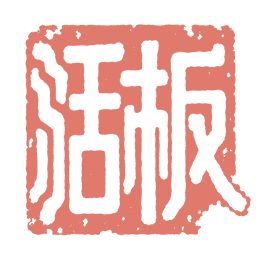
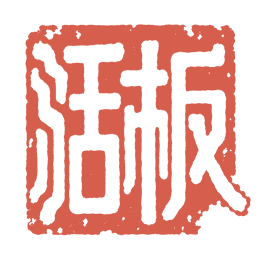
设计资产：深色印面改 #D65E4D，关于页最终稿与 v2 精修稿入库

diff --git a/designs/about-final-v2.html b/designs/about-final-v2.html
@@ -1,0 +1,161 @@
+<!doctype html>
+<html lang="zh-CN">
+<head>
+<meta charset="utf-8">
+<meta name="viewport" content="width=device-width,initial-scale=1">
+<title>活板 · 关于页（精修对比稿 v2 · 浅色 / 深色）</title>
+<style>
+*{box-sizing:border-box}
+html,body{margin:0;padding:0}
+body{
+  background:#E6E3DA;color:#1B1D1E;
+  font-family:"PingFang SC","Microsoft YaHei",system-ui,sans-serif;
+  padding:36px 24px 56px;
+}
+.wrap{max-width:860px;margin:0 auto}
+header{margin-bottom:26px}
+h1{font-size:20px;font-weight:600;margin:0 0 6px;letter-spacing:.04em}
+.sub{font-size:12px;color:#6B6F72;line-height:1.7}
+.label{font-size:12px;color:#5A5E61;letter-spacing:.1em;margin:26px 0 8px}
+
+/* 第 8 条：窄屏兜底。默认窄屏值，宽屏在 media 里覆盖 */
+.stage{
+  width:100%;height:440px;
+  display:flex;flex-direction:column;padding:0 24px;
+  border:1px solid var(--rule);
+  background:var(--paper);color:var(--ink);
[1 lines of base64/hex data omitted]
+}
+.stage.light{
+  /* 第 1 条：浅色 --ink-3 压深到 #6F695F */
+  --paper:#F1EFE8; --ink:#1B1D1E; --ink-3:#6F695F;
+  --seal:#A83A2E; --seal-border:rgba(168,58,46,0.4);
+  --rule:rgba(27,29,30,0.16);
+  --sans:"PingFang SC","Microsoft YaHei",system-ui,sans-serif;
+}
+.stage.dark{
+  /* 第 1 条：深色 --ink-3 提到 #8D8880；第 2 条：朱砂压暗成 #D65E4D */
+  --paper:#15181D; --ink:#E8E4DA; --ink-3:#8D8880;
+  --seal:#D65E4D; --seal-border:rgba(214,94,77,0.45);
+  --rule:rgba(232,228,218,0.16);
+  --sans:"PingFang SC","Microsoft YaHei",system-ui,sans-serif;
+}
+.center{flex:1;display:flex;flex-direction:column;align-items:center;justify-content:center}
+.ab-mark{
+  /* 第 8 条：印面响应式 */
+  width:clamp(72px,18vw,112px);height:clamp(72px,18vw,112px);
+  background-color:var(--seal);
+  -webkit-mask-image:var(--mark);mask-image:var(--mark);
+  -webkit-mask-size:100% 100%;mask-size:100% 100%;
+  -webkit-mask-repeat:no-repeat;mask-repeat:no-repeat;
+}
+.ab-ver{
+  /* 第 1 条：等宽数字 */
+  margin-top:34px;font-family:var(--sans);font-size:12px;
+  letter-spacing:0.16em;margin-right:-0.16em;
+  color:var(--ink-3);line-height:1.6;
+  font-variant-numeric:tabular-nums;
+}
+.footer{
+  /* 第 4 条：垂直重心 24 / 32；第 8 条：允许换行 */
+  display:flex;align-items:center;flex-wrap:wrap;gap:16px;
+  border-top:1px solid var(--rule);
+  padding:24px 0 32px;
+}
+.links{display:flex;align-items:center;gap:24px}
+.lnk{
+  color:var(--ink);text-decoration:none;font-family:var(--sans);
+  font-size:13px;letter-spacing:.02em;cursor:pointer;
+}
+/* 第 7 条：箭头交给 CSS，变小、上浮、强制文本渲染，不再写进 HTML */
+.lnk::after{
+  content:"\2197";
+  font-size:0.85em;margin-left:2px;vertical-align:0.15em;
+  font-variant-emoji:text;
+}
+/* 两链接之间的分隔线（开发者 2026-11-12 要求从圆点恢复为竖线） */
+.sep{width:1px;height:18px;background:var(--rule)}
+.btn{
+  /* 第 3 条：框收窄到 120px；margin-left:auto 全局生效，
+     窄屏 footer 换行后按钮仍被推到所在行最右（修复落在左下角的问题） */
+  margin-left:auto;min-width:120px;height:36px;padding:0 16px;
+  display:inline-flex;align-items:center;justify-content:center;
+  background:none;border:1px solid var(--seal-border);border-radius:0;
+  color:var(--seal);font-family:var(--sans);font-size:12px;cursor:pointer;
+}
+.btn span{
+  /* 第 1、3 条：等宽数字 + 字距降到 0.08em */
+  letter-spacing:0.08em;margin-right:-0.08em;
+  font-variant-numeric:tabular-nums;
+}
+/* 第 6 条：审核通过前禁用态在视觉上退后 */
+.btn:disabled{opacity:0.5;cursor:not-allowed}
+
+/* 第 8 条：宽屏恢复 48px 内边距与按钮靠右 */
+@media (min-width:600px){
+  .stage{padding:0 48px}
+}
+
+.note{
+  margin-top:30px;padding-top:16px;border-top:1px solid rgba(0,0,0,.12);
+  font-size:12px;line-height:1.95;color:#5A5E61;
+}
+.note code{font-size:11.5px}
+</style>
+</head>
+<body>
+<div class="wrap">
+<header>
+  <h1>活板 · 关于页（精修对比稿 v2）</h1>
+  <div class="sub">基于乙1 最终稿 · 三个梯队 8 条已落实 · 一页并列浅色与深色，供对比</div>
+</header>
+
+<div class="label">浅色模式</div>
+<div class="stage light">
+  <div class="center"><div class="ab-mark"></div><div class="ab-ver">0.2.1</div></div>
+  <div class="footer">
+    <div class="links">
+      <a class="lnk" href="#">小红书主页</a>
+      <span class="sep"></span>
+      <a class="lnk" href="#">GitHub 项目页</a>
+    </div>
+    <button class="btn" type="button" disabled aria-disabled="true"><span>请喝杯茶</span></button>
+  </div>
+</div>
+
+<div class="label">深色模式</div>
+<div class="stage dark">
+  <div class="center"><div class="ab-mark"></div><div class="ab-ver">0.2.1</div></div>
+  <div class="footer">
+    <div class="links">
+      <a class="lnk" href="#">小红书主页</a>
+      <span class="sep"></span>
+      <a class="lnk" href="#">GitHub 项目页</a>
+    </div>
+    <button class="btn" type="button" disabled aria-disabled="true"><span>请喝杯茶</span></button>
+  </div>
+</div>
+
+<div class="note">
+  这是<strong>精修对比稿</strong>，不是产品界面；与 <code>designs/about-final.html</code> 并列留存，用于对比效果。
+  印面沿用现役 112px 蒙版与 <code>var(--seal)</code> 运行时染色，<strong>没有重画 logo</strong>；
+  独立资产见 <code>gui/assets/about_seal_light.png</code>、<code>about_seal_dark.png</code>、<code>about_seal_mask.png</code>，
+  库存登记见 <code>docs/design-assets.md</code>。<br>
+  相对最终稿的改动：浅色 <code>--ink-3:#6F695F</code> / 深色 <code>--ink-3:#8D8880</code>；
+  深色朱砂 <code>#E07A6C → #D65E4D</code>；版本号与按钮加 <code>tabular-nums</code>；
+  按钮 148→120px、字距 0.16→0.08em（含光学补偿）；footer 上下留白 18/48 → 24/32；
+  两链接间保留竖分隔线（圆点方案已回退）；禁用态 <code>opacity:.5</code> + <code>not-allowed</code>；
+  箭头由 CSS 伪元素绘制并强制文本渲染；响应式 <code>clamp()</code> 印面 + <code>@media 600px</code> 兜底；
+  按钮 <code>margin-left:auto</code> 全局生效，窄屏 footer 换行后仍保持在右下角。<br>
+  实现约束：打赏通道审核通过前，按钮保持 <code>disabled</code> + <code>aria-disabled</code>、无 <code>href</code>；
+  两条外链须 <code>preventDefault()</code> + <code>stopPropagation()</code> 并经 <code>js_api</code> 打开系统浏览器。
+  本文件未修改 <code>gui/ui.html</code>、<code>gui/api.py</code> 及任何源码。
+</div>
+</div>
+<script>
+document.querySelectorAll('.lnk, .btn').forEach(function(el){
+  el.addEventListener('click', function(e){ e.preventDefault(); });
+});
+</script>
+</body>
+</html>

diff --git a/designs/about-final.html b/designs/about-final.html
@@ -1,0 +1,127 @@
+<!doctype html>
+<html lang="zh-CN">
+<head>
+<meta charset="utf-8">
+<meta name="viewport" content="width=device-width,initial-scale=1">
+<title>活板 · 关于页最终设计稿（浅色 / 深色）</title>
+<style>
+*{box-sizing:border-box}
+html,body{margin:0;padding:0}
+body{
+  background:#E6E3DA;color:#1B1D1E;
+  font-family:"PingFang SC","Microsoft YaHei",system-ui,sans-serif;
+  padding:36px 24px 56px;
+}
+.wrap{max-width:860px;margin:0 auto}
+header{margin-bottom:26px}
+h1{font-size:20px;font-weight:600;margin:0 0 6px;letter-spacing:.04em}
+.sub{font-size:12px;color:#6B6F72;line-height:1.7}
+.label{font-size:12px;color:#5A5E61;letter-spacing:.1em;margin:26px 0 8px}
+
+.stage{
+  width:100%;height:440px;
+  display:flex;flex-direction:column;padding:0 48px;
+  border:1px solid var(--rule);
+  background:var(--paper);color:var(--ink);
[1 lines of base64/hex data omitted]
+}
+.stage.light{
+  --paper:#F1EFE8; --ink:#1B1D1E; --ink-3:#928C7E;
+  --seal:#A83A2E; --seal-border:rgba(168,58,46,0.4);
+  --rule:rgba(27,29,30,0.16);
+  --sans:"PingFang SC","Microsoft YaHei",system-ui,sans-serif;
+}
+.stage.dark{
+  --paper:#15181D; --ink:#E8E4DA; --ink-3:#77726A;
+  --seal:#E07A6C; --seal-border:rgba(224,122,108,0.45);
+  --rule:rgba(232,228,218,0.16);
+  --sans:"PingFang SC","Microsoft YaHei",system-ui,sans-serif;
+}
+.center{flex:1;display:flex;flex-direction:column;align-items:center;justify-content:center}
+.ab-mark{
+  width:112px;height:112px;background-color:var(--seal);
+  -webkit-mask-image:var(--mark);mask-image:var(--mark);
+  -webkit-mask-size:100% 100%;mask-size:100% 100%;
+  -webkit-mask-repeat:no-repeat;mask-repeat:no-repeat;
+}
+.ab-ver{
+  margin-top:34px;font-family:var(--sans);font-size:12px;
+  letter-spacing:0.16em;margin-right:-0.16em;
+  color:var(--ink-3);line-height:1.6;
+}
+.footer{
+  display:flex;align-items:center;
+  border-top:1px solid var(--rule);
+  padding:18px 0 48px;
+}
+.links{display:flex;align-items:center;gap:24px}
+.lnk{
+  color:var(--ink);text-decoration:none;font-family:var(--sans);
+  font-size:13px;letter-spacing:.02em;cursor:pointer;
+}
+.sep{width:1px;height:18px;background:var(--rule)}
+.btn{
+  margin-left:auto;min-width:148px;height:36px;padding:0 14px;
+  display:inline-flex;align-items:center;justify-content:center;
+  background:none;border:1px solid var(--seal-border);border-radius:0;
+  color:var(--seal);font-family:var(--sans);font-size:12px;cursor:pointer;
+}
+.btn span{letter-spacing:0.16em;margin-right:-0.16em}
+
+.note{
+  margin-top:30px;padding-top:16px;border-top:1px solid rgba(0,0,0,.12);
+  font-size:12px;line-height:1.95;color:#5A5E61;
+}
+.note code{font-size:11.5px}
+</style>
+</head>
+<body>
+<div class="wrap">
+<header>
+  <h1>活板 · 关于页（最终设计稿）</h1>
+  <div class="sub">乙1「朱印细框」敲定稿 · 固定印面不重画 · 一页并列浅色与深色</div>
+</header>
+
+<div class="label">浅色模式</div>
+<div class="stage light">
+  <div class="center"><div class="ab-mark"></div><div class="ab-ver">0.2.1</div></div>
+  <div class="footer">
+    <div class="links">
+      <a class="lnk" href="#">小红书主页 ↗</a>
+      <span class="sep"></span>
+      <a class="lnk" href="#">GitHub 项目页 ↗</a>
+    </div>
+    <button class="btn" type="button"><span>请喝杯茶</span></button>
+  </div>
+</div>
+
+<div class="label">深色模式</div>
+<div class="stage dark">
+  <div class="center"><div class="ab-mark"></div><div class="ab-ver">0.2.1</div></div>
+  <div class="footer">
+    <div class="links">
+      <a class="lnk" href="#">小红书主页 ↗</a>
+      <span class="sep"></span>
+      <a class="lnk" href="#">GitHub 项目页 ↗</a>
+    </div>
+    <button class="btn" type="button"><span>请喝杯茶</span></button>
+  </div>
+</div>
+
+<div class="note">
+  这是<strong>最终视觉稿</strong>，不是产品界面。印面沿用现役 112px 蒙版与 <code>var(--seal)</code> 运行时染色
+  （浅 <code>#A83A2E</code> / 深 <code>#E07A6C</code>），没有重画 logo；独立资产见
+  <code>gui/assets/about_seal_light.png</code>、<code>about_seal_dark.png</code>、<code>about_seal_mask.png</code>，
+  库存登记见 <code>docs/design-assets.md</code>。<br>
+  实现约束：打赏通道审核通过前，按钮保持 <code>disabled</code> + <code>aria-disabled</code>、无 <code>href</code>；
+  两条外链须 <code>preventDefault()</code> + <code>stopPropagation()</code> 并经 <code>js_api</code> 打开系统浏览器。
+  本文件未修改 <code>gui/ui.html</code>、<code>gui/api.py</code> 及任何源码。
+</div>
+</div>
+<script>
+document.querySelectorAll('.lnk, .btn').forEach(function(el){
+  el.addEventListener('click', function(e){ e.preventDefault(); });
+});
+</script>
+</body>
+</html>

diff --git a/docs/design-assets.md b/docs/design-assets.md
@@ -72,8 +72,15 @@
 | `about_seal_light.png` / `about_seal_dark.png` | **关于页**印面（浅 / 深） |
 | `about_seal_mask.png` | 关于页印面蒙版；与 `gui/ui.html` 里内嵌的 base64 蒙版逐字节相同 |
 
-关于页那三张目前**没有被代码引用**（`gui/ui.html` 用的是内嵌 base64，尺寸 264×264，底色吃 `var(--seal)`：
-浅 `#A83A2E`、深 `#E07A6C`），作为素材与依据留存。
+关于页那三张目前**没有被代码引用**：`gui/ui.html` 用的是内嵌 base64（264×264），底色吃 `var(--seal)`
+运行时染色，浅 `#A83A2E`、深 `#E07A6C`；三张 PNG 是独立素材与依据留存，色值以下面这段为准。
+
+**深色资产印色（2026-11-12 开发者定）**：`about_seal_dark.png` 已由现行 `#E07A6C` 更新为
+**新版 `#D65E4D`**（v2 候选稿 `designs/about-final-v2.html` 的深色朱砂），仍由母版 alpha 着色导出、
+形状与做旧边缘不变。浅色 `about_seal_light.png` 保持 `#A83A2E` 不变。
+注意**现役 `gui/ui.html` 的深色 `--seal` 仍是 `#E07A6C`**，运行时引用未改；
+后续落地 v2 时要同步改代码里的深色变量，别以为改了资产就自动生效。
+决策记录见 `docs/notes/about-seal-dark-color.md`。
 
 **两枚「印」不是同一份**：图标母版 `_shot/about_mock/mask_264.png`（= `gui/assets/icon_mask_264.png`）
 与关于页的 `about_seal_mask.png` 墨迹不同，别互相替代。
@@ -81,6 +88,13 @@
 ## 三、设计稿
 
 - `designs/about-redesign.html` —— 关于页重设计的候选稿合集，敲定的是「乙 · 终稿一 · 朱印细框」。已入库。
+- `designs/about-final.html` —— **关于页最终视觉稿**：乙1 敲定版，一页并列浅色 / 深色两版；
+  按钮文案定为「请喝杯茶」（不带审核中），印面沿用现役 112px 蒙版与 `var(--seal)` 染色，不重画。已入库。
+- `designs/about-final-v2.html` —— **精修对比稿**：基于最终稿，按开发者 2026-11-12 的三梯队 8 条意见调整
+  （版本号 `--ink-3` 压深 + `tabular-nums`、深色朱砂 `#E07A6C → #D65E4D`、按钮收窄到 120px、
+  footer 留白 24/32、禁用态退后、箭头改 CSS 伪元素、响应式兜底；
+  2026-11-12 修订：两链接分隔恢复竖线、按钮 `margin-left:auto` 全局生效使窄屏换行后仍保持右下角），
+  一页并列浅色 / 深色，供与最终稿对比；**不改产品源码**。已入库。
 - `design/` —— 封面与动效的候选稿（不进仓库）。`03-终稿` 只由开发者挪，肥鱼不动。
 
 ## 四、新增或替换资产时必须做的

diff --git a/docs/gui-design.md b/docs/gui-design.md
@@ -159,9 +159,11 @@
   内嵌在 `gui/ui.html` 的 `.ab-mark` 蒙版里，独立文件只在 `backups/trash-20261106/_about_logo.png`
   留过一份。现补三份独立资产，都是 264×264 RGBA：
   `about_seal_light.png`（浅色，印色取浅色 `--seal` `#A83A2E`）、
-  `about_seal_dark.png`（深色，印色取深色 `--seal` `#E07A6C`）、
+  `about_seal_dark.png`（深色，印色 `#D65E4D`；2026-11-12 开发者定，见 `docs/notes/about-seal-dark-color.md`）、
   `about_seal_mask.png`（母版，手 P 透明底图本体，与 `gui/ui.html` 内嵌 base64 逐字节一致）。
-  浅/深两版都由母版按 `--seal` 着色导出，形状与做旧边缘完全一致，不重画。
+  浅/深两版都由母版着色导出，形状与做旧边缘完全一致，不重画。浅色 `#A83A2E` 与现役浅色 `--seal` 相同；
+  深色按开发者 2026-11-12 决策改为 `#D65E4D`（v2 候选稿的新版朱砂），不再取现役 `--seal` 的 `#E07A6C`。
+  现行（本次更新前）深色印色是 `#E07A6C`，已随本次资产更新作废。
   **现役 `gui/ui.html` 仍走内嵌 base64 + `var(--seal)` 运行时染色**，这三份是独立资产留存与
   设计稿取图用，运行时引用未改；后续若改成文件引用，深浅切换要同步换文件。
 

diff --git a/docs/project-framework.md b/docs/project-framework.md
@@ -23,7 +23,7 @@
       ├─ launcher.py   三级入口共用（python -m gui.app / gui.pyw / exe）
       └─ assets/       图标 / textures/（底纹）/ backgrounds/（整幅背景）
                        ├─ about_seal_light.png   关于页印面·浅色（印色 #A83A2E，264×264 RGBA）
-                       ├─ about_seal_dark.png    关于页印面·深色（印色 #E07A6C，264×264 RGBA）
+                       ├─ about_seal_dark.png    关于页印面·深色（印色 #D65E4D，264×264 RGBA）
                        └─ about_seal_mask.png    手 P 透明底母版（ui.html 内嵌 base64 的独立留存）
 CLI 只有四个子命令：`diagnose` / `clean` / `epub` / `reflow`（EPUB 导入）。
 GUI 是第五条入口，设计权威是 `docs/gui-design.md`（§4 视图数、§5 js_api 方法表以代码为准）。
